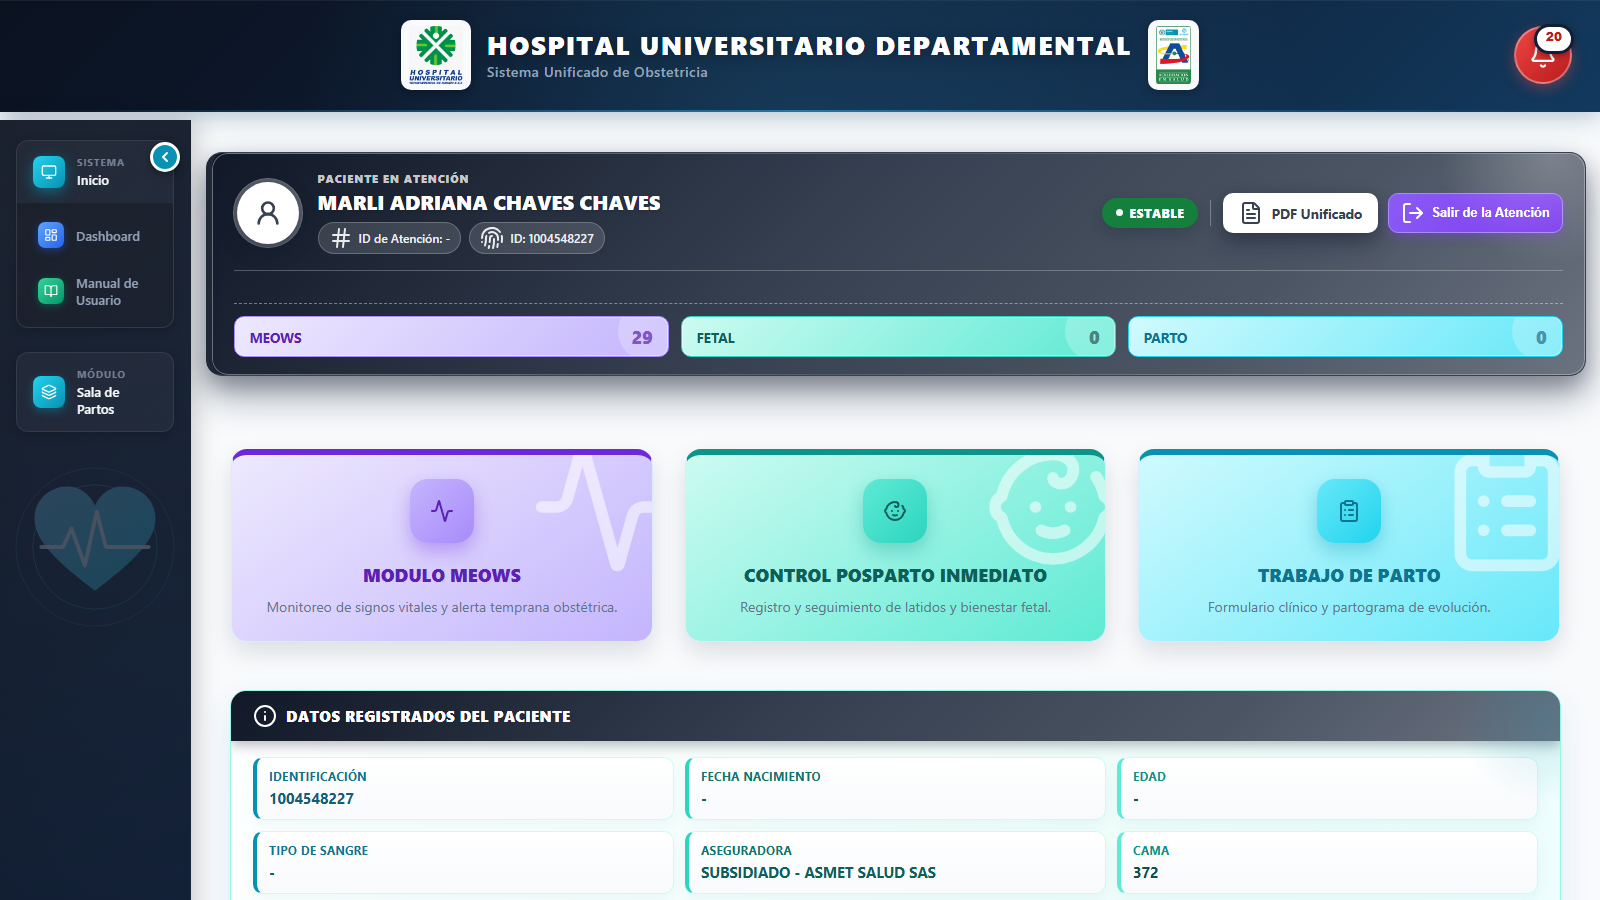
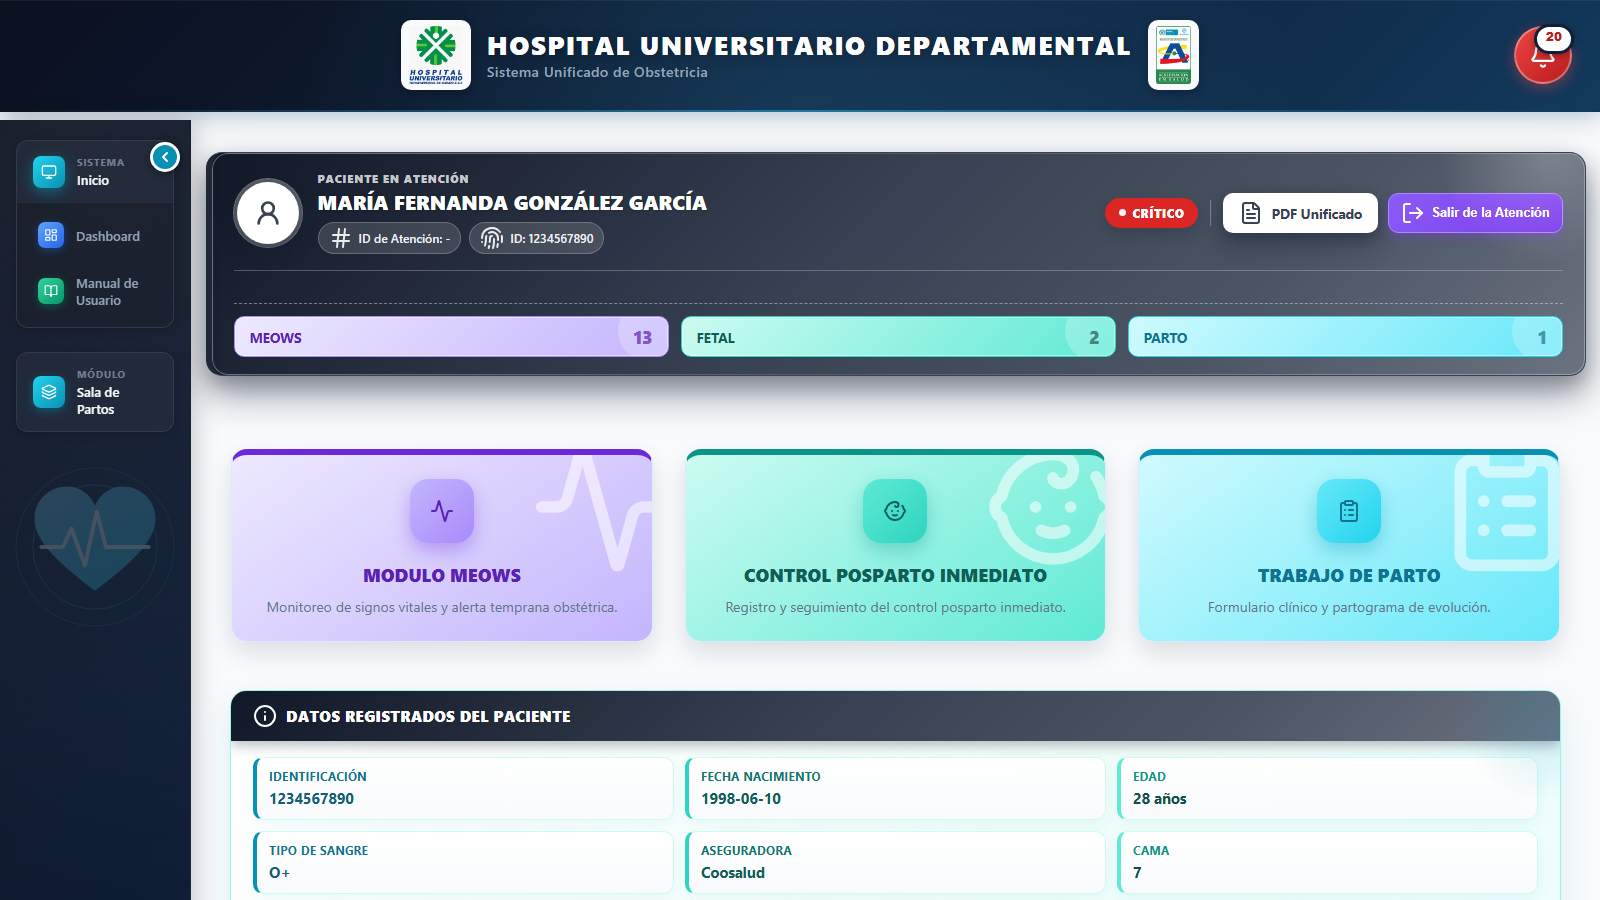
feat: mejorar alertas MEOWS

diff --git a/obstetriciaunificador/templates/obstetricia/manual_usuario.html b/obstetriciaunificador/templates/obstetricia/manual_usuario.html
@@ -413,6 +413,10 @@
                             esta pantalla, un resumen de todo lo registrado hasta ahora en los tres módulos. Use
                             los botones <code class="btnname">Ver registros</code> / <code class="btnname">Ocultar registros</code>
                             para expandir o contraer cada grupo.</li>
+                        <li>En el grupo <b>MEOWS</b> de esa línea de tiempo, use el botón
+                            <code class="btnname">🔍 Visualizar gráfica de trazabilidad</code> para abrir la gráfica
+                            del puntaje total en una ventana más grande — útil cuando la paciente ya tiene muchas
+                            mediciones y la gráfica pequeña queda muy apretada para leerla bien.</li>
                     </ol>
 
                     <h3 class="step-title">Terminar o cambiar de paciente</h3>
@@ -544,11 +548,32 @@
                     <ul class="plain">
                         <li><code class="btnname">Ver Historial Clínico</code>: muestra todas las mediciones
                             anteriores de la paciente en una sola cuadrícula (línea de tiempo).</li>
-                        <li><code class="btnname">Limpiar Formulario</code>: borra lo que haya escrito en la
-                            pantalla actual (pide confirmación antes de borrar).</li>
                         <li><code class="btnname">Generar PDF</code>: descarga el formato oficial MEOWS con todas
-                            las mediciones de la paciente.</li>
+                            las mediciones de la paciente (si tiene muchas, se reparten en varias páginas para que
+                            ninguna quede afuera).</li>
                     </ul>
+
+                    <h3 class="step-title">Después de guardar: la pantalla de resultado</h3>
+                    <p style="font-size:14.5px;color:#334155;line-height:1.6;margin:0 0 6px;">
+                        Al guardar una medición, el sistema lo lleva a una pantalla de resultado con el puntaje, el
+                        nivel de riesgo y tres botones — cada uno con un color distinto a propósito, para no
+                        confundirlos:
+                    </p>
+                    <ul class="plain">
+                        <li><code class="btnname">✏ Corregir esta Medición</code> (amarillo): corrige los valores
+                            de <b>esta misma</b> medición que acaba de guardar — no crea un registro nuevo.</li>
+                        <li><code class="btnname">📊 Ver Historial del Paciente</code> (azul): abre la cuadrícula
+                            con todas las mediciones anteriores.</li>
+                        <li><code class="btnname">➕ Registrar Nueva Toma</code> (verde): abre el formulario en
+                            blanco para registrar una toma <b>distinta</b> de la misma paciente.</li>
+                    </ul>
+                    <div class="callout tip">
+                        <i data-lucide="info" size="18"></i>
+                        <span>Cuando está corrigiendo una medición existente (no creando una nueva), el botón de
+                        guardar del formulario dice <code class="btnname">Guardar Corrección</code> en vez de
+                        <code class="btnname">Guardar Registro MEOWS</code>, para que quede claro que no está
+                        creando una toma adicional.</span>
+                    </div>
 
                     <h3 class="step-title">Ver e interpretar el historial</h3>
                     <div class="screenshot-frame">
@@ -788,8 +813,8 @@
 
                     <h3 class="step-title">Guardé un dato equivocado, ¿puedo corregirlo?</h3>
                     <p style="font-size:14.5px;color:#334155;line-height:1.6;margin:0;">
-                        Sí. En MEOWS, abra el registro desde el historial y use <code class="btnname">Editar este
-                        Registro</code>. En Control Posparto Inmediato y Trabajo de Parto, vuelva a abrir el
+                        Sí. En MEOWS, abra el registro desde el historial y use <code class="btnname">✏ Corregir
+                        esta Medición</code>. En Control Posparto Inmediato y Trabajo de Parto, vuelva a abrir el
                         formulario de la paciente, corrija el valor y presione nuevamente el botón de guardar
                         correspondiente.
                     </p>
@@ -812,7 +837,7 @@
                         Corríjalo directamente en las cards del formulario antes de presionar
                         <code class="btnname">Guardar Registro MEOWS</code> — precargar el dato no le impide
                         editarlo. Si el registro ya se guardó con el error, ábralo desde el historial y use
-                        <code class="btnname">Editar este Registro</code>.
+                        <code class="btnname">✏ Corregir esta Medición</code>.
                     </p>
 
                     <h3 class="step-title">¿Por qué me llegó una alerta de una paciente que está bien (BLANCO/VERDE)?</h3>
@@ -820,6 +845,14 @@
                         La campana avisa de <b>toda</b> medición nueva, no solo de las críticas, para que se entere
                         apenas llega un dato — el color del aviso (blanco, verde, amarillo o rojo) le indica qué tan
                         urgente es. Solo el riesgo <b>ROJO</b> interrumpe además con un aviso emergente y sonido.
+                    </p>
+
+                    <h3 class="step-title">¿Hasta cuánto tiempo después sigue apareciendo una medición en la campana?</h3>
+                    <p style="font-size:14.5px;color:#334155;line-height:1.6;margin:0;">
+                        Hasta <b>24 horas</b> después de tomada. Esto es a propósito: si por cualquier motivo nadie
+                        revisó la campana en el momento (por ejemplo, un corte breve del sistema), la alerta sigue
+                        disponible durante ese día en vez de perderse — ninguna medición registrada se queda sin
+                        alertar.
                     </p>
                 </section>
 

diff --git a/obstetriciaunificador/templates/obstetricia/sala_de_partos.html b/obstetriciaunificador/templates/obstetricia/sala_de_partos.html
@@ -1158,8 +1158,8 @@
                 
                 <a href="#" id="link-fetal" class="module-card card-fetal">
                     <div class="card-icon"><i data-lucide="baby" size="32"></i></div>
-                    <h3>FRECUENCIA FETAL</h3>
-                    <p>Registro y seguimiento de latidos y bienestar fetal.</p>
+                    <h3>CONTROL POSPARTO INMEDIATO</h3>
+                    <p>Registro y seguimiento del control posparto inmediato.</p>
                 </a>
                 
                 <a href="#" id="link-parto" class="module-card card-parto">
